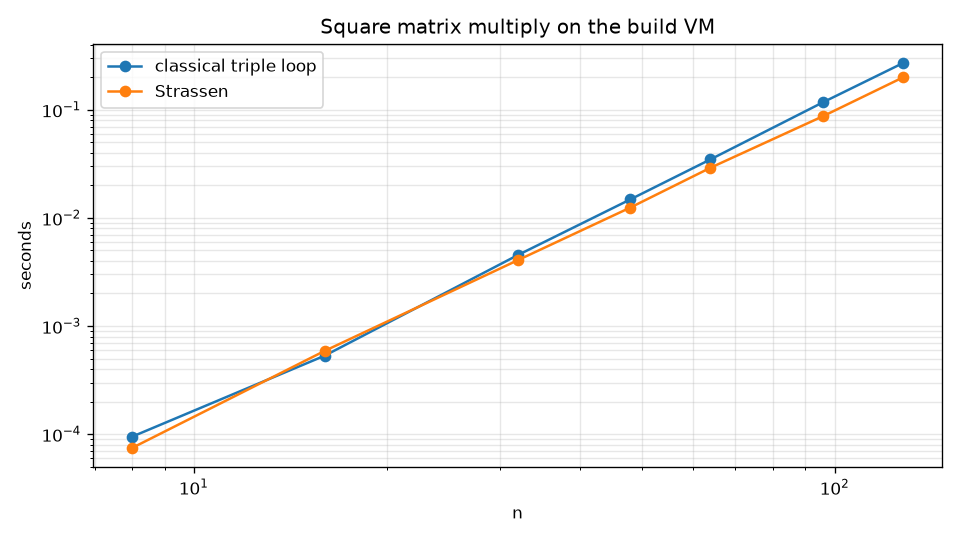
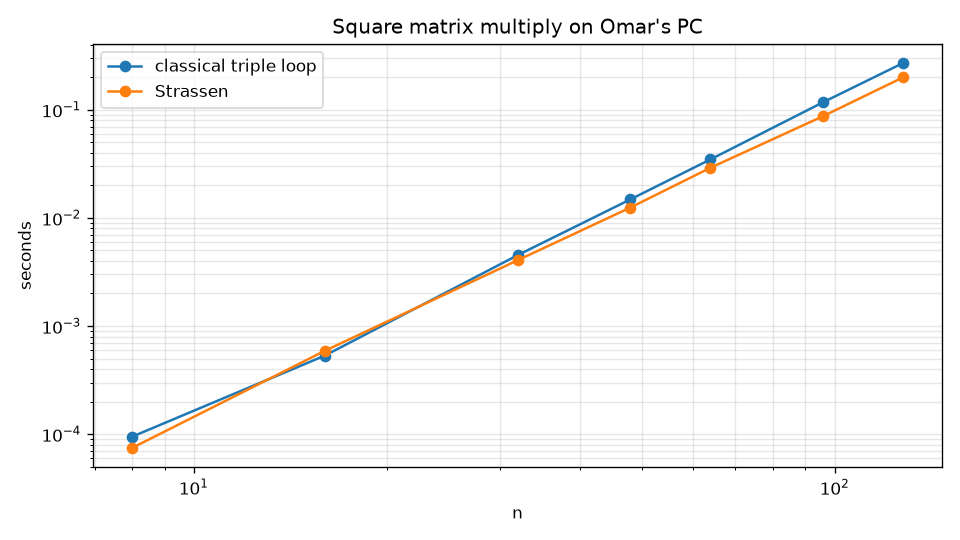
Redraw the benchmark charts from the saved PC timings.
The titles now say Omar's PC. The CSV is unchanged, and the report drops the note about the old chart titles.

Changed region(s): [[0.3125, 0.0296, 0.75, 0.0889]]

diff --git a/benchmarks/run_benchmarks.py b/benchmarks/run_benchmarks.py
@@ -6,6 +6,7 @@ If you omit it, the label is the hostname, or "my PC" when that name is empty.
 """
 
 import argparse
+import csv
 import platform
 import sys
 import time
@@ -140,23 +141,27 @@ def _series(rows, group, method, sizes):
     return [lookup.get((n, method)) for n in sizes]
 
 
-def main(argv=None):
-    parser = argparse.ArgumentParser(description="Time FFTs, matrix products, and a Hilbert check.")
-    parser.add_argument(
-        "--label",
-        default=None,
-        help="Name stored in machine.txt. Defaults to the hostname, or 'my PC'.",
-    )
-    args = parser.parse_args(argv)
-    label = args.label.strip() if args.label else _default_label()
-    out = ROOT / "benchmarks" / "results"
-    out.mkdir(parents=True, exist_ok=True)
+def read_benchmark_rows(path):
+    """Load a saved CSV. This does not time anything."""
     rows = []
-    run_fft(rows)
-    run_matmul(rows)
-    sizes, conds, errors = run_condition(rows)
-    write_csv(out / "benchmarks.csv", rows)
+    with open(path, newline="") as handle:
+        for record in csv.DictReader(handle):
+            rows.append(
+                (
+                    record["group"],
+                    int(record["size"]),
+                    record["method"],
+                    float(record["seconds"]),
+                    int(record["repeats"]),
+                )
+            )
+    return rows
 
+
+def redraw_plots(out, label, rows=None):
+    """Draw the three PNGs from saved rows. The CSV is left untouched."""
+    if rows is None:
+        rows = read_benchmark_rows(out / "benchmarks.csv")
     fft_sizes = [2**k for k in range(5, 21)]
     plot_series(
         fft_sizes,
@@ -187,7 +192,42 @@ def main(argv=None):
         title="Square matrix multiply on %s" % label,
         loglog=True,
     )
+    conds_by_size = {}
+    for group, size, method, seconds, _repeats in rows:
+        if group == "condition":
+            conds_by_size.setdefault(size, {})[method] = seconds
+    sizes = sorted(conds_by_size)
+    conds = [conds_by_size[n]["hilbert_cond"] for n in sizes]
+    errors = [conds_by_size[n]["relative_solution_change"] for n in sizes]
     plot_condition_numbers(sizes, conds, errors, out / "condition_error.png")
+
+
+def main(argv=None):
+    parser = argparse.ArgumentParser(description="Time FFTs, matrix products, and a Hilbert check.")
+    parser.add_argument(
+        "--label",
+        default=None,
+        help="Name stored in machine.txt and used on the plot titles. Defaults to the hostname, or 'my PC'.",
+    )
+    parser.add_argument(
+        "--plot-only",
+        action="store_true",
+        help="Redraw the three PNGs from benchmarks.csv. Does not time anything or rewrite the CSV.",
+    )
+    args = parser.parse_args(argv)
+    label = args.label.strip() if args.label else _default_label()
+    out = ROOT / "benchmarks" / "results"
+    out.mkdir(parents=True, exist_ok=True)
+    if args.plot_only:
+        redraw_plots(out, label)
+        print("redrew plots for %s" % label)
+        return
+    rows = []
+    run_fft(rows)
+    run_matmul(rows)
+    run_condition(rows)
+    write_csv(out / "benchmarks.csv", rows)
+    redraw_plots(out, label, rows=rows)
 
     note = "\n".join(
         [

diff --git a/analysis/chapter11_report.md b/analysis/chapter11_report.md
@@ -1,6 +1,6 @@
 # Chapter 11 report: FFTAnalyzer
 
-Word count: 1493 words, not counting this line or the title.
+Word count: 1485.
 
 ## Executive summary
 
@@ -54,7 +54,7 @@ A nudge of size 1e-8 in b, one fixed random direction, moves the Hilbert solutio
 
 ## Benchmarking plots
 
-Times below are medians from benchmarks/run_benchmarks.py on my PC: Python 3.14.7, Windows 11, AMD64, 12 CPUs. The CSV is benchmarks/results/benchmarks.csv. Naive and recursive runs use 3 repeats, except one naive run at length 1024. Iterative FFT and np.fft use 5 repeats under 2^14, then 3, then one run from 2^18 up. Matrix products use 5 repeats through n = 64 and 3 after that. Figure titles still say build VM from that old hardcoded string. The CSV is this machine.
+Times below are medians from benchmarks/run_benchmarks.py on my PC: Python 3.14.7, Windows 11, AMD64, 12 CPUs. The CSV is benchmarks/results/benchmarks.csv. Naive and recursive runs use 3 repeats, except one naive run at length 1024. Iterative FFT and np.fft use 5 repeats under 2^14, then 3, then one run from 2^18 up. Matrix products use 5 repeats through n = 64 and 3 after that.
 
 ![FFT timing](../benchmarks/results/fft_timing.png)
 
